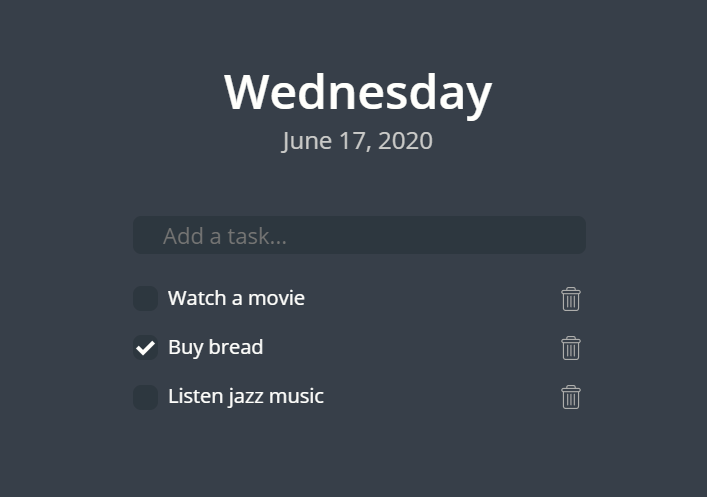
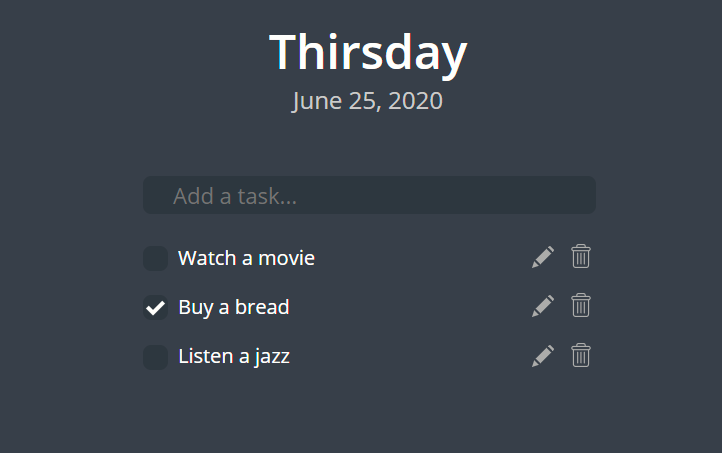
add edit

diff --git a/src/features/list/listSlice.js b/src/features/list/listSlice.js
@@ -4,18 +4,30 @@ export const listSlice = createSlice({
   name: 'list',
   initialState: {
     list: JSON.parse(window.localStorage.getItem('list')) || [],
-    item: window.localStorage.getItem('item') || ''
+    item: window.localStorage.getItem('item') || '',
+    id: window.localStorage.getItem('id') || ''
   },
   reducers: {
     add: (state, action) => {
-      if (state.item !== '' && action.payload === 'Enter') {
-        state.list.push({
-          id: Date.now(),
-          value: state.item,
-          checked: false
-        })
-        state.item = ''
+      if (action.payload === 'Enter') {
+        if (state.item !== '' && state.id === '') {
+          state.list.push({
+            id: Date.now(),
+            value: state.item,
+            checked: false
+          })
+          state.item = ''
+        } else {
+          state.list
+            .filter(item => +item.id === +state.id)
+            .map(item => item.value = state.item)
+          state.item = ''
+          state.id = ''
+          window.localStorage.setItem('id', state.id)
+        }
+
       }
+
       window.localStorage.setItem('list', JSON.stringify(state.list))
       window.localStorage.setItem('item', state.item)
     },
@@ -23,23 +35,30 @@ export const listSlice = createSlice({
       state.item = action.payload
       window.localStorage.setItem('item', state.item)
     },
-    remove: (state, action) => {      
+    remove: (state, action) => {
       state.list = state.list.filter(item => item.id !== action.payload)
       window.localStorage.setItem('list', JSON.stringify(state.list))
     },
     setChecked: (state, action) => {
       state.list
-      .filter(item => item.id === action.payload)
-      .map(item=> item.checked = !item.checked);
+        .filter(item => item.id === action.payload)
+        .map(item => item.checked = !item.checked);
       window.localStorage.setItem('list', JSON.stringify(state.list))
+    },
+    setEdit: (state, action) => {
+      state.item = action.payload.value
+      state.id = action.payload.id
+      window.localStorage.setItem('item', state.item)
+      window.localStorage.setItem('id', state.id)
     }
   },
 });
 
-export const { add, setItem, remove, setChecked } = listSlice.actions;
+
 
 
 export const selectItem = state => state.list.item;
 export const selectList = state => state.list.list;
 
+export const { add, setItem, remove, setChecked, setEdit } = listSlice.actions;
 export default listSlice.reducer;

diff --git a/src/features/list/Item/Item.jsx b/src/features/list/Item/Item.jsx
@@ -2,11 +2,12 @@ import React from 'react'
 import { useDispatch } from 'react-redux'
 
 import bin from './symbol/bin.png'
+import edit from './symbol/edit.svg'
 
 import './checkbox.css'
 import styles from './Item.module.css'
 
-import { remove, setChecked } from '../listSlice'
+import { remove, setChecked, setEdit } from '../listSlice'
 
 export const Item = ({ id, value, checked }) => {
     const dispatch = useDispatch()
@@ -28,12 +29,21 @@ export const Item = ({ id, value, checked }) => {
                 </span>
 
             </div>
-            <img
-                src={bin}
-                alt="bin"
-                className={styles.item_bin}
-                onClick={() => dispatch(remove(id))}
-            />
+            <div className={styles.item__controls}>
+                <img
+                    src={edit}
+                    alt="correct"
+                    className={`${styles.cursor} ${styles.edit}`}
+                    onClick={() => dispatch(setEdit({id, value}))}
+                />
+                <img
+                    src={bin}
+                    alt="bin"
+                    className={`${styles.cursor} ${styles.remove}`}
+                    onClick={() => dispatch(remove(id))}
+                />
+
+            </div>
         </li>
 
     )

diff --git a/src/features/list/Item/Item.module.sass b/src/features/list/Item/Item.module.sass
@@ -12,9 +12,12 @@
     color: white
     border: none
 
-.item_bin
+.cursor
     &:hover
         cursor: pointer
+
+.edit
+    margin-right: 15px
 
 
 @media screen and(max-width: 450px)

diff --git a/src/features/list/Item/Item.module.css b/src/features/list/Item/Item.module.css
@@ -20,8 +20,12 @@
   border: none;
 }
 
-.item_bin:hover {
+.cursor:hover {
   cursor: pointer;
+}
+
+.edit {
+  margin-right: 15px;
 }
 
 @media screen and (max-width: 450px) {
